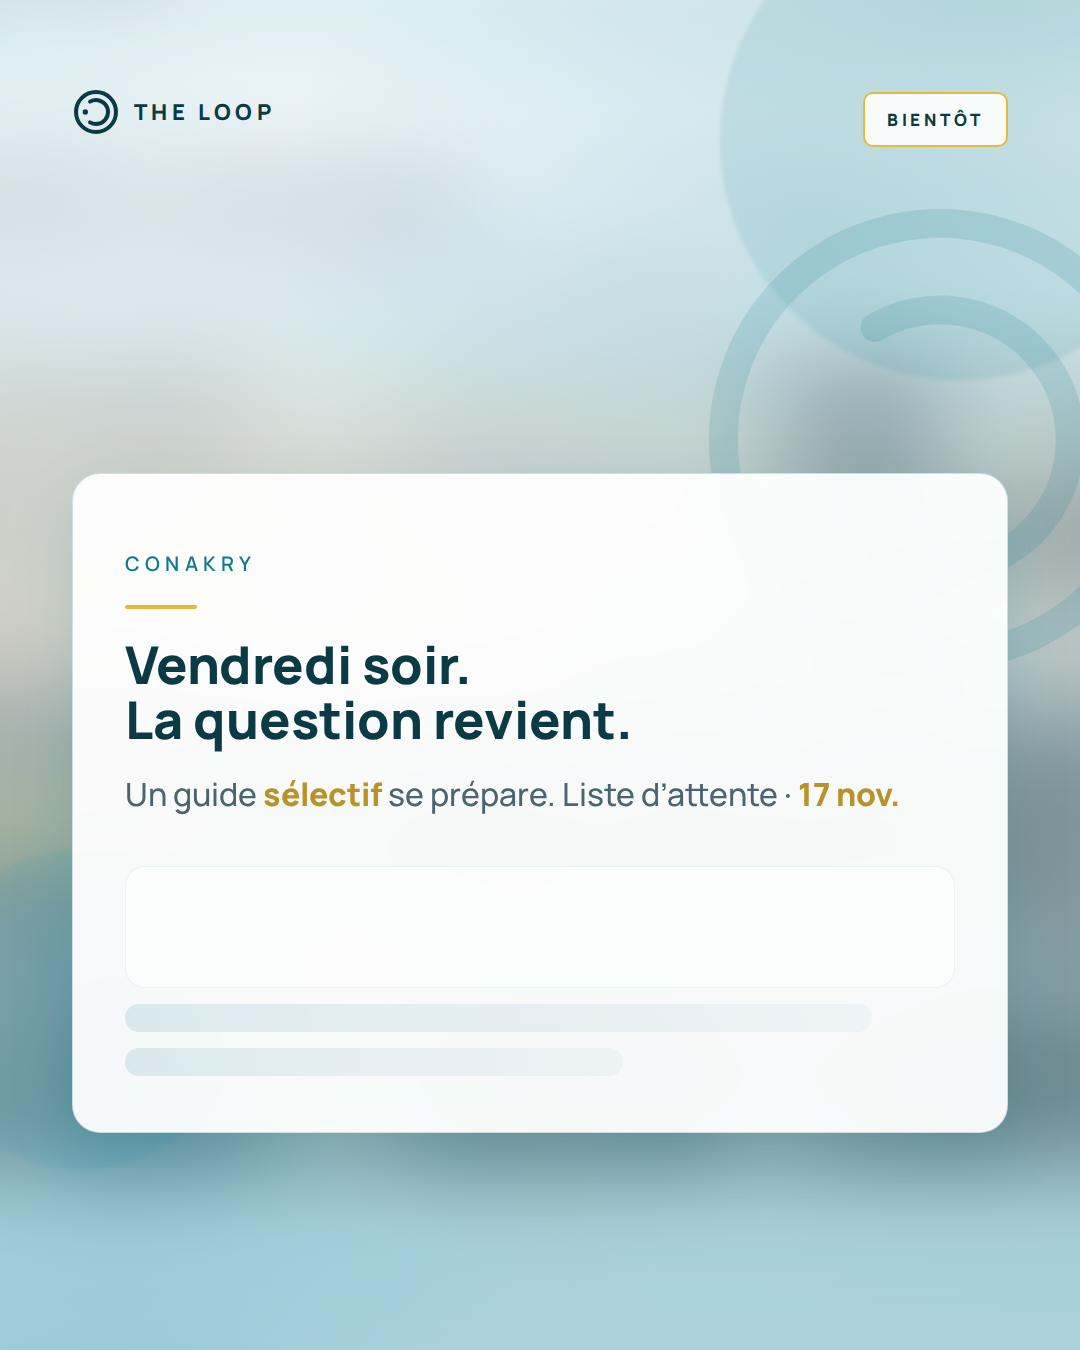
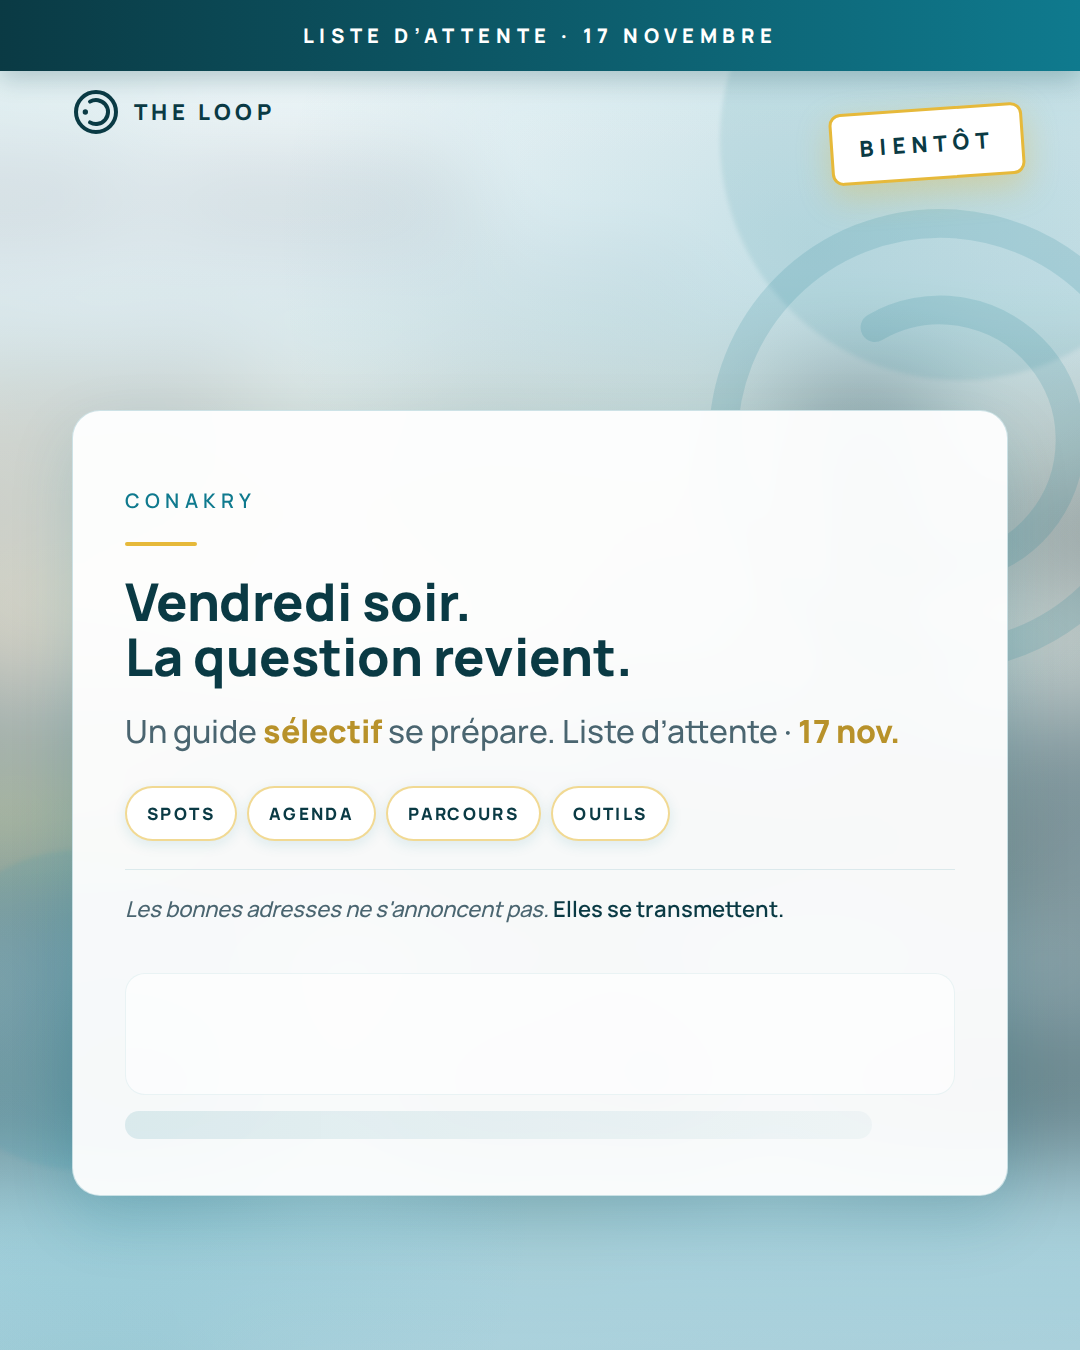
docs(com): diff visible v2 vs PUBLIER + bandeau #1 + fix export Reels

diff --git a/docs/communication/lancement-2026/export-visuels-pack-acte-a-v4-light.html b/docs/communication/lancement-2026/export-visuels-pack-acte-a-v4-light.html
@@ -18,7 +18,7 @@
     }
     body { margin: 0; font-family: Manrope, sans-serif; background: #ccc; padding: 20px; }
     .label { color: #555; font-size: 11px; letter-spacing: 0.15em; text-transform: uppercase; text-align: center; margin: 28px 0 10px; }
-    .c {
+    .slide {
       width: 1080px;
       height: 1350px;
       margin: 0 auto 16px;
@@ -29,7 +29,7 @@
       background: linear-gradient(175deg, #ecf4f7 0%, #c8e3ec 40%, #96c4d4 100%);
       color: var(--deep);
     }
-    .c.reel { height: 1920px; }
+    .slide.reel { height: 1920px; }
     /* Atmosphère : capture illisible = lumière de l’app, pas le contenu */
     .atmo {
       position: absolute;
@@ -156,19 +156,37 @@
       font-weight: 700;
       letter-spacing: 0.06em;
     }
+    .top-ribbon {
+      position: absolute;
+      top: 0;
+      left: 0;
+      right: 0;
+      z-index: 5;
+      background: linear-gradient(90deg, var(--deep) 0%, var(--teal) 100%);
+      color: #fff;
+      text-align: center;
+      font-size: 20px;
+      font-weight: 800;
+      letter-spacing: 0.28em;
+      text-transform: uppercase;
+      padding: 22px 32px;
+      box-shadow: 0 8px 24px rgba(10,58,68,0.22);
+    }
     .stamp {
       position: absolute;
-      top: 92px;
-      right: 72px;
+      top: 108px;
+      right: 56px;
       z-index: 4;
-      border: 2px solid var(--gold);
+      border: 3px solid var(--gold);
       color: var(--deep);
-      font-size: 17px;
-      letter-spacing: 0.22em;
-      padding: 14px 22px;
-      border-radius: 10px;
-      background: rgba(255,255,255,0.9);
+      font-size: 22px;
+      letter-spacing: 0.28em;
+      padding: 18px 26px;
+      border-radius: 12px;
+      background: #fff;
       font-weight: 800;
+      transform: rotate(-4deg);
+      box-shadow: 0 12px 32px rgba(230,185,58,0.35);
     }
     .pillars {
       display: flex;
@@ -177,15 +195,16 @@
       margin-top: 32px;
     }
     .pillars span {
-      font-size: 15px;
-      font-weight: 700;
-      letter-spacing: 0.12em;
+      font-size: 17px;
+      font-weight: 800;
+      letter-spacing: 0.14em;
       text-transform: uppercase;
-      color: var(--teal);
-      padding: 11px 18px;
+      color: var(--deep);
+      padding: 14px 20px;
       border-radius: 999px;
-      background: rgba(15,122,142, 0.1);
-      border: 1px solid rgba(15,122,142, 0.18);
+      background: #fff;
+      border: 2px solid rgba(230,185,58,0.55);
+      box-shadow: 0 4px 14px rgba(15,122,142,0.12);
     }
     .sig-line {
       margin-top: 28px;
@@ -202,11 +221,12 @@
 <body>
 
   <div class="label">#1 — 3/11 · Feed · clair + atmosphère (sans contenu lisible)</div>
-  <div class="c">
+  <div class="slide">
     <div class="atmo"></div>
     <div class="atmo-teal"></div>
     <svg class="watermark" viewBox="0 0 36 36" fill="none"><circle cx="18" cy="18" r="15" stroke="#0F7A8E" stroke-width="2"/><path d="M 13.5 10.21 A 9 9 0 1 1 13.5 25.79" stroke="#0F7A8E" stroke-width="2" stroke-linecap="round"/></svg>
     <div class="blobs"><div class="blob a"></div><div class="blob b"></div><div class="blob c"></div></div>
+    <div class="top-ribbon">Liste d’attente · 17 novembre</div>
     <div class="stamp">BIENTÔT</div>
     <div class="inner">
       <div class="mark-row">
@@ -231,7 +251,7 @@
   </div>
 
   <div class="label">#1 · Reels 9:16</div>
-  <div class="c reel">
+  <div class="slide reel">
     <div class="atmo"></div>
     <div class="atmo-teal"></div>
     <div class="blobs"><div class="blob a"></div><div class="blob b" style="top:120px;right:-40px"></div></div>
@@ -246,7 +266,7 @@
   </div>
 
   <div class="label">#2 — 5/11 · Signature · clair</div>
-  <div class="c">
+  <div class="slide">
     <div class="atmo" style="background-position:center 60%"></div>
     <div class="atmo-teal"></div>
     <div class="inner" style="justify-content:center">

diff --git a/docs/communication/lancement-2026/comparaison-feed-v2-vs-publier.html b/docs/communication/lancement-2026/comparaison-feed-v2-vs-publier.html
@@ -1,0 +1,55 @@
+<!DOCTYPE html>
+<html lang="fr">
+<head>
+  <meta charset="utf-8" />
+  <title>Diff v2 teal vs PUBLIER</title>
+  <link href="https://fonts.googleapis.com/css2?family=Manrope:wght@600;800&display=swap" rel="stylesheet" />
+  <style>
+    body { margin: 0; font-family: Manrope, sans-serif; background: #1a1a1a; padding: 24px; }
+    h1 { color: #fff; text-align: center; font-size: 28px; letter-spacing: 0.08em; margin-bottom: 8px; }
+    p.sub { color: #aaa; text-align: center; font-size: 18px; max-width: 900px; margin: 0 auto 32px; line-height: 1.5; }
+    .row { display: flex; gap: 24px; justify-content: center; align-items: flex-start; flex-wrap: wrap; }
+    .panel { width: 520px; }
+    .tag {
+      color: #fff;
+      font-size: 14px;
+      font-weight: 800;
+      letter-spacing: 0.2em;
+      text-transform: uppercase;
+      margin-bottom: 12px;
+      padding: 12px 16px;
+      border-radius: 8px;
+      text-align: center;
+    }
+    .tag.old { background: #555; }
+    .tag.new { background: #0f7a8e; }
+    .panel img { width: 100%; height: auto; border-radius: 12px; box-shadow: 0 16px 48px rgba(0,0,0,0.45); }
+    .bullets {
+      color: #ddd;
+      font-size: 16px;
+      line-height: 1.55;
+      margin-top: 16px;
+      padding: 16px;
+      background: #2a2a2a;
+      border-radius: 10px;
+    }
+    .bullets strong { color: #e6b93a; }
+  </style>
+</head>
+<body>
+  <h1>Post #1 — pourquoi v2 ≈ final ?</h1>
+  <p class="sub">À gauche : <strong>feed-v2</strong> = même carte, fond teal un peu plus marqué (écart ~3 %). À droite : <strong>PUBLIER</strong> = bandeau + BIENTÔT + piliers + signature.</p>
+  <div class="row" id="compare">
+    <div class="panel">
+      <div class="tag old">POST_3-11_feed-v2.png · fond seulement</div>
+      <img src="exports-png-v4-light/POST_3-11_feed-v2.png" alt="v2" />
+      <div class="bullets">Pas de bandeau teal en haut.<br />Pas de tampon <strong>BIENTÔT</strong>.<br />Pas des pills Spots / Agenda / Parcours / Outils.<br />Pas de ligne signature sous le texte.</div>
+    </div>
+    <div class="panel">
+      <div class="tag new">POST_3-11_feed-PUBLIER-3nov.png · à poster</div>
+      <img src="exports-png-v4-light/POST_3-11_feed-PUBLIER-3nov.png" alt="publier" />
+      <div class="bullets">Bandeau <strong>Liste d’attente · 17 novembre</strong>.<br />Tampon <strong>BIENTÔT</strong> (or).<br />4 piliers blancs bordure or.<br />Signature en italique.</div>
+    </div>
+  </div>
+</body>
+</html>

diff --git a/docs/communication/lancement-2026/CHARTE-FOND-TEXTE.md b/docs/communication/lancement-2026/CHARTE-FOND-TEXTE.md
@@ -7,8 +7,9 @@
 
 ## Fichier source (version validée)
 - HTML : `export-visuels-pack-acte-a-v4-light.html`
-- **Style :** dégradé **v2** (`#ecf4f7 → #c8e3ec → #96c4d4`) + stamp **BIENTÔT** + 4 piliers + signature (sans capture app).
-- **Fichier #1 validé :** `POST_3-11_feed-final.png` (v1/v2 = même fond à ~3 % — pas de différence visible ; **final** = fond v2 + éléments ajoutés).
+- **Style :** dégradé **v2** (`#ecf4f7 → #c8e3ec → #96c4d4`) + bandeau **Liste · 17 nov.** + stamp **BIENTÔT** + 4 piliers + signature (sans capture app).
+- **Fichier #1 à poster :** `POST_3-11_feed-PUBLIER-3nov.png` (alias `POST_3-11_feed-final.png`).
+- **Ne pas confondre :** `POST_3-11_feed-v2.png` = **uniquement** le fond teal (+3 %) — **aucun** bandeau / tampon / piliers. Comparaison visuelle : `GUIDE_DIFF_feed-v2-vs-PUBLIER-3nov.png`.
 
 ## Pourquoi tous les visuels changent en même temps ?
 Un seul fichier **`export-visuels-pack-acte-a-v4-light.html`** contient **3 slides** (3/11 feed, Reels, 5/11). Quand on modifie le **fond** (CSS) et qu’on lance `export-slides-png-v4.mjs`, les PNG **`01_`, `02_`, `03_`** sont **regénérés** — même fond sur tout le pack.  

diff --git a/docs/communication/lancement-2026/fiches/01-2026-11-03.md b/docs/communication/lancement-2026/fiches/01-2026-11-03.md
@@ -4,8 +4,9 @@
 **Aucune capture app** — storytelling avant produit.
 
 ## Visuels (v4 clair — aligné app)
-- Feed : `exports-png-v4-light/01_*.png`
-- Reels : `exports-png-v4-light/02_*.png`
+- Feed : `exports-png-v4-light/POST_3-11_feed-PUBLIER-3nov.png` (bandeau + BIENTÔT + piliers)
+- Reels : `exports-png-v4-light/POST_3-11_reels-PUBLIER-3nov.png`
+- Si tu ne vois pas la différence avec `feed-v2` : ouvre `GUIDE_DIFF_feed-v2-vs-PUBLIER-3nov.png`
 
 ## Légende
 
